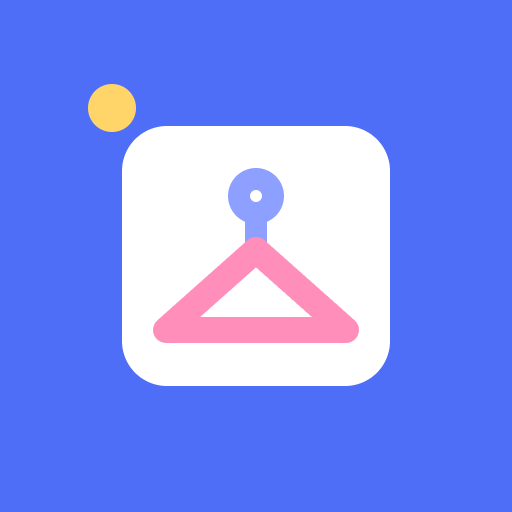
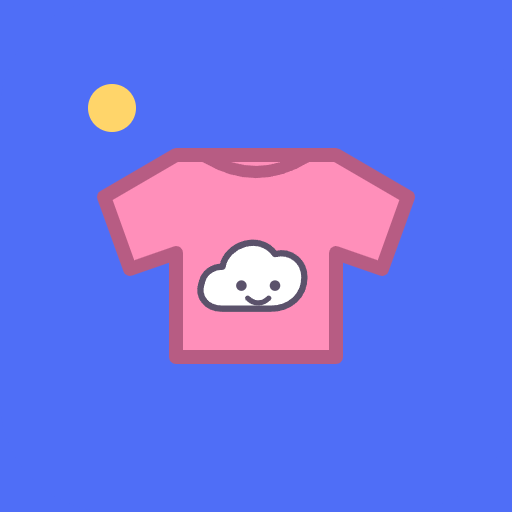
图标改为粉色T恤加云朵吉祥物，对齐多多速记的笔法与配色

Changed region(s): [[0.1875, 0.2188, 0.8125, 0.7812]]

diff --git a/更新日志.md b/更新日志.md
@@ -103,3 +103,16 @@
   小尺寸（48px、72px）下并排检查确认已成一套。
 - 验证：浅色与深色两套界面截图检查通过，零控制台报错、零 404；
   三个尺寸的图标 PNG 均为满幅无透明通道，主屏不会被裁出黑角。
+
+2026-10-08 v1.3 图标改为粉色 T 恤 + 云朵吉祥物
+- 图标第三次改版，按用户要求做成「粉色 T 恤，胸口放多多速记的云朵」。
+- 一处澄清：云朵不在多多速记的 icon.svg 里，而是它页面顶部的品牌吉祥物
+  （index.html 里的 duoduo-cloud 符号）——白色云朵、深紫描边 #5b526b、两只眼睛、
+  一个微笑，右上飘一颗粉心、左上一点黄色星芒。
+- 新图标结构：蓝色圆角底板 + 黄色圆点（沿用多多速记图标）+ 粉色 T 恤做主体，胸口印云朵。
+  T 恤直接取云朵那颗粉心的配色（#ff8fba 填充、#b75c83 描边），
+  描边粗细也与云朵一致（都约占自身宽度的 4.6%），保证是同一套笔法。
+- 版型修正：第一版衣身又窄又长，看着像连衣背心；按真实 T 恤比例重画（衣身宽 160、
+  长 202），袖子加长，云朵放大到胸口合适的尺寸，主体在底板里垂直居中。
+- 验证：48px 与 72px 下与多多速记图标并排比对，确认为同一套；
+  三个尺寸 PNG 均为满幅无透明通道，左上角即 #4F6EF7。
